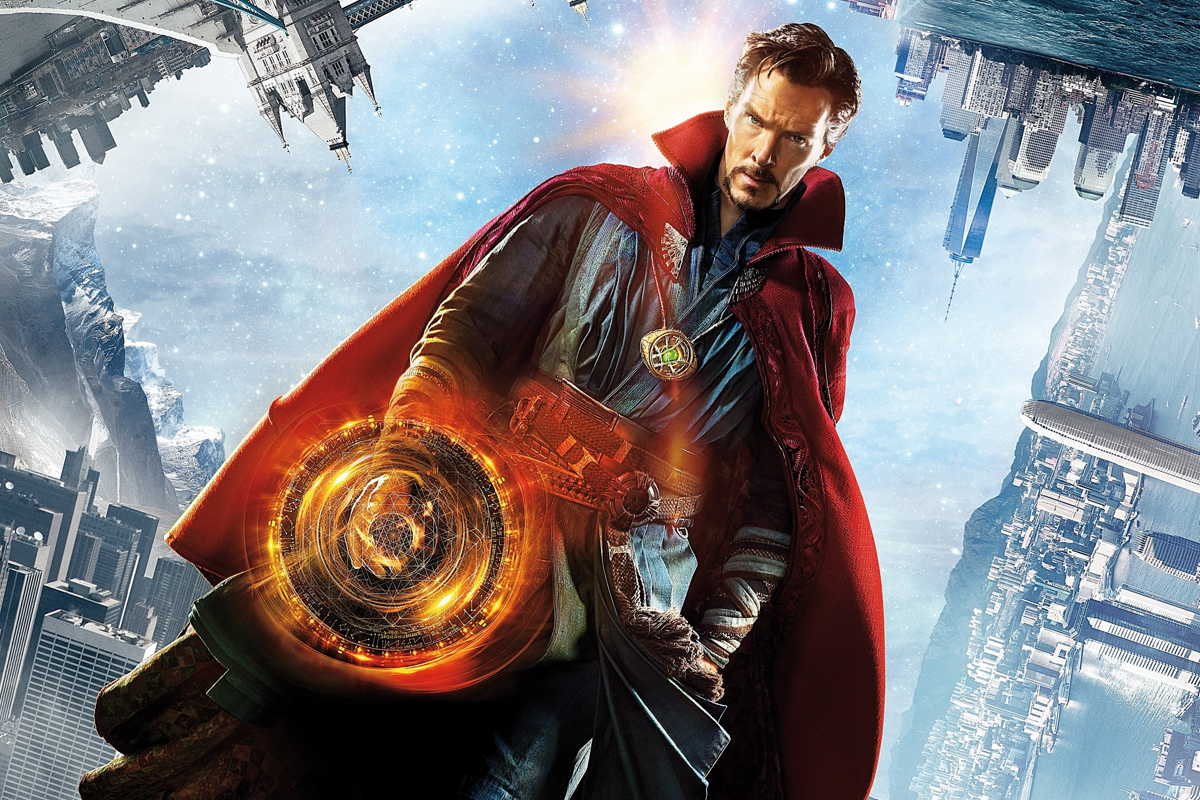
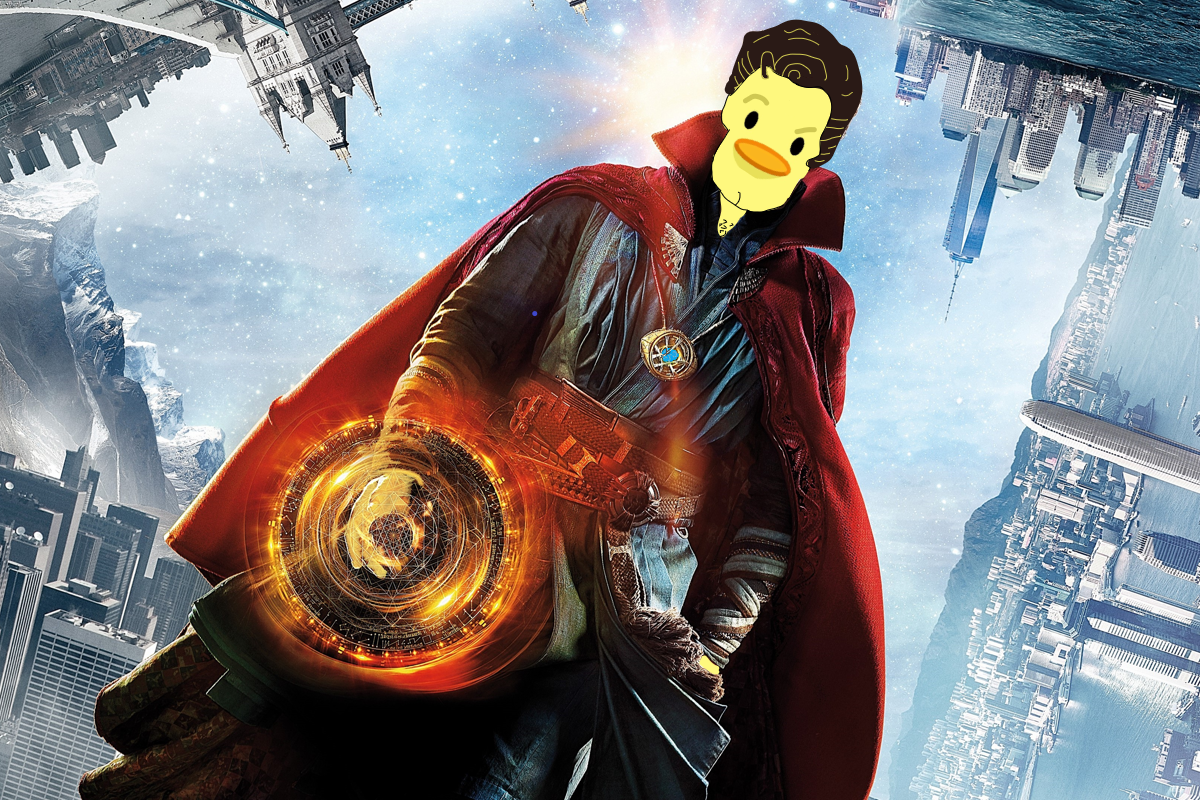
Duckter strange

diff --git a/raw/battleCards.php b/raw/battleCards.php
@@ -26,19 +26,19 @@ $definedBattleCards = [
     ["name" => "Meeple Army", "power" => "12", "energy" => "6", "balance" => "2", "onReveal" => "", "onGoing" => "loses 1 |Power| Power for every |revolution| card", "special" => "", "description" => "", "type" => "Wind", "series" => ""],
     ["name" => "Easter Chick Army", "power" => "7", "energy" => "6", "balance" => "1", "onReveal" => "", "onGoing" => "", "special" => "", "description" => "We cluck Everywhere", "type" => "Water", "series" => "revolution"],
     // B021 - B030
-    ["name" => "Dr. Strange", "power" => "8", "energy" => "6", "balance" => "2", "onReveal" => "Remove all |onGoing| ongoing effects from all cards in everyone's hands", "onGoing" => "", "special" => "", "description" => "", "type" => "Fire", "series" => ""],
+    ["name" => "Duckter Strange", "power" => "8", "energy" => "6", "balance" => "2", "onReveal" => "Remove all |onGoing| ongoing effects from all cards in everyone's hands", "onGoing" => "", "special" => "", "description" => "", "type" => "Fire", "series" => "GGCU"],
     ["name" => "Big Goober", "power" => "7", "energy" => "7", "balance" => "0", "onReveal" => "Place this card on your head. If it falls off you return it to your hand.", "onGoing" => "", "special" => "", "description" => "this goober really silly", "type" => "Earth", "series" => "Fun"],
     ["name" => "Elmo", "power" => "8", "energy" => "7", "balance" => "1", "onReveal" => "Add 2 Tuna (B100) to your hand", "onGoing" => "All |Water| water type cards have 1 less |Power| power", "special" => "", "description" => "", "type" => "Wind", "series" => "GGCU"],
     ["name" => "Super Soaker", "power" => "10", "energy" => "7", "balance" => "3", "onReveal" => "", "onGoing" => "Dissapears if there is any |Fire| fire type card you played", "special" => "Costs 1 |Energy| less for every |Water| water type card played by you", "description" => "", "type" => "Water", "series" => ""],
     ["name" => "Giftcard", "power" => "7", "energy" => "3", "balance" => "0", "onReveal" => "", "onGoing" => "", "special" => "when played, after battle is over give this card to the player in last place", "description" => "", "type" => "Fire", "series" => "", "deck" => "A"],
     ["name" => "The Killer Bunny", "power" => "8", "energy" => "3", "balance" => "3", "onReveal" => "", "onGoing" => "", "special" => "you can only have a total of 2 cards", "description" => "The guardian beast.", "type" => "Earth", "series" => ""],
-    ["name" => "Quirk-Destroying Drug", "power" => "4", "energy" => "2", "balance" => "3", "onReveal" => "", "onGoing" => "Your cards don't have abilities anymore (except this one)", "special" => "", "description" => "", "type" => "Wind", "series" => ""],
+    ["name" => "Quirk-Destroying Drug", "power" => "4", "energy" => "2", "balance" => "3", "onReveal" => "", "onGoing" => "Your cards don't have abilities anymore (except this one)", "special" => "", "description" => "", "type" => "Wind", "series" => "GGCU"],
     ["name" => "Tractor Chick", "power" => "5", "energy" => "3", "balance" => "4", "onReveal" => "", "onGoing" => "all cards lose their abilities (except this one)", "special" => "", "description" => "Cluck vroom cluck", "type" => "Water", "series" => "revolution"],   
     ["name" => "Failed Experiment", "power" => "5", "energy" => "4", "balance" => "2", "onReveal" => "", "onGoing" => "all cards cost 2 |Energy| Energy", "special" => "", "description" => "Don't cluck with fire cluck", "type" => "Fire", "series" => "revolution"],
-    ["name" => "Duck Compress", "power" => "10", "energy" => "4", "balance" => "3", "onReveal" => "choose 1 battlecard from every player's hand (blindly) they will play that card for free", "onGoing" => "", "special" => "", "description" => "", "type" => "Earth", "series" => ""],
+    ["name" => "Duck Compress", "power" => "10", "energy" => "4", "balance" => "3", "onReveal" => "choose 1 battlecard from every player's hand (blindly) they will play that card for free", "onGoing" => "", "special" => "", "description" => "", "type" => "Earth", "series" => "GGCU"],
     // B031 - B040
     ["name" => "", "power" => "3", "energy" => "3", "balance" => "1", "onReveal" => "let an opponent choose a card from your hand (blindly) you will play that card for free", "onGoing" => "", "special" => "", "description" => "", "type" => "Wind", "series" => ""],
-    ["name" => "Quack for One", "power" => "2", "energy" => "3", "balance" => "1", "onReveal" => "next card you play will get it's |Power| power doubled", "onGoing" => "", "special" => "", "description" => "", "type" => "Water", "series" => ""],     
+    ["name" => "Quack for One", "power" => "2", "energy" => "3", "balance" => "1", "onReveal" => "next card you play will get it's |Power| power doubled", "onGoing" => "", "special" => "", "description" => "", "type" => "Water", "series" => "GGCU"],     
     ["name" => "Confusing traffic", "power" => "4", "energy" => "3", "balance" => "1", "onReveal" => "next card you play will get it's |Power| power and |Energy| Energy doubled", "onGoing" => "", "special" => "", "description" => "Not enough signs", "type" => "Fire", "series" => ""],
     ["name" => "Fire Flower", "power" => "3", "energy" => "3", "balance" => "1", "onReveal" => "give all |Fire| type cards 1 extra |Power| power", "onGoing" => "", "special" => "", "description" => "", "type" => "Fire", "series" => "Mushroom"],
     ["name" => "", "power" => "3", "energy" => "3", "balance" => "1", "onReveal" => "give all your |Water| type cards 1 extra |Power| power", "onGoing" => "", "special" => "", "description" => "", "type" => "Electric", "series" => ""],
@@ -54,7 +54,7 @@ $definedBattleCards = [
     ["name" => "", "power" => "7", "energy" => "5", "balance" => "4", "onReveal" => "give all your |Earth| type cards 1 extra |Power| power", "onGoing" => "", "special" => "", "description" => "", "type" => "Earth", "series" => ""],       
     ["name" => "", "power" => "7", "energy" => "5", "balance" => "4", "onReveal" => "give all your |Wind| type cards 1 extra |Power| power", "onGoing" => "", "special" => "", "description" => "", "type" => "Wind", "series" => ""],
     ["name" => "DIY Forge", "power" => "7", "energy" => "5", "balance" => "4", "onReveal" => "", "onGoing" => "all your |Fire| type cards cost 1 less |Energy| Energy", "special" => "", "description" => "", "type" => "Fire", "series" => ""],
-    ["name" => "Quacki Kaminari", "power" => "7", "energy" => "5", "balance" => "4", "onReveal" => "", "onGoing" => "all your |Water| type cards cost 1 less |Energy| Energy", "special" => "", "description" => "", "type" => "Electric", "series" => ""],     
+    ["name" => "Quacki Kaminari", "power" => "7", "energy" => "5", "balance" => "4", "onReveal" => "", "onGoing" => "all your |Water| type cards cost 1 less |Energy| Energy", "special" => "", "description" => "", "type" => "Electric", "series" => "GGCU"],     
     ["name" => "Boulder Mushroom", "power" => "7", "energy" => "5", "balance" => "4", "onReveal" => "", "onGoing" => "all your |Earth| type cards cost 1 less |Energy| Energy", "special" => "", "description" => "", "type" => "Earth", "series" => "Mushroom"],
     ["name" => "Forbidden room", "power" => "5", "energy" => "4", "balance" => "2", "onReveal" => "", "onGoing" => "", "special" => "The next card you play turns into Curse (B036)", "description" => "", "type" => "Wind", "series" => "Henk"],
     ["name" => "Hidden Mcdonalds", "power" => "-1", "energy" => "0", "balance" => "1", "onReveal" => "steal 1 |Energy|energy from all other players (if they have any left)", "onGoing" => "", "special" => "", "description" => "Chicken nuggies hunt", "type" => "Earth", "series" => ""],
